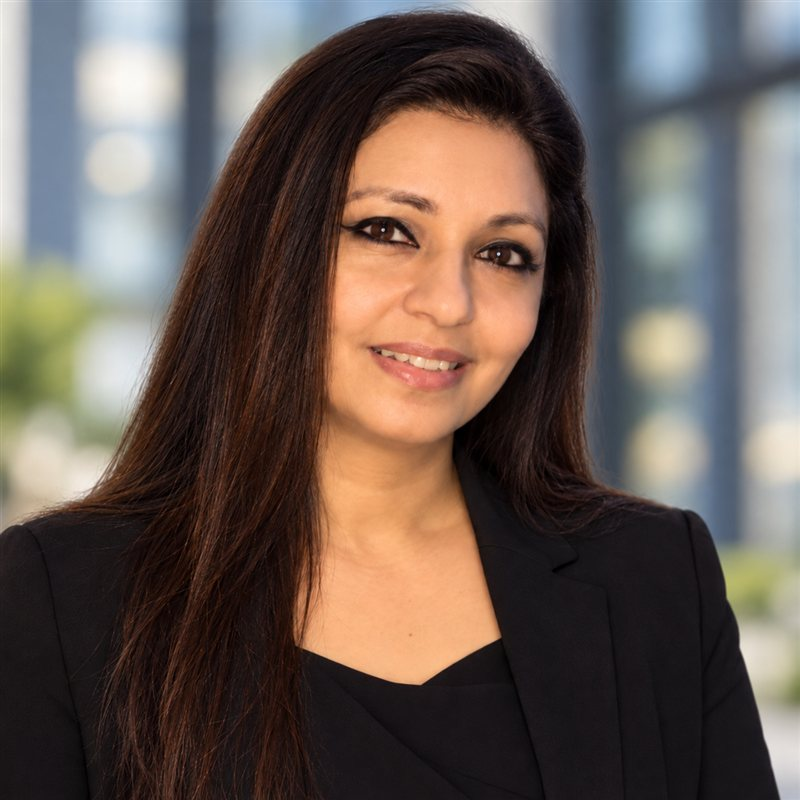
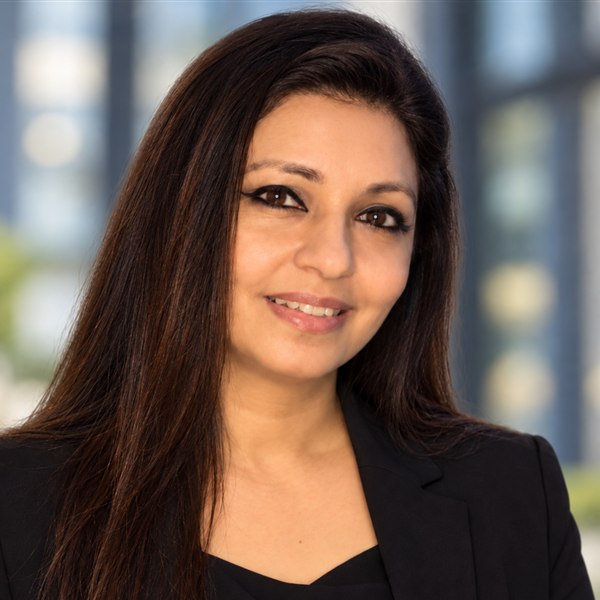
Crop tutor photos to centred headshots so heads are not cut off

diff --git a/components/TutorAvatar.tsx b/components/TutorAvatar.tsx
@@ -1,8 +1,7 @@
 type TutorAvatarProps = {
   name: string;
+  /** Square, already-cropped headshot */
   photo?: string;
-  /** Where the face sits in the photo (CSS position), so the crop centres on it. */
-  focus?: string;
   /** Tailwind size classes, e.g. "h-12 w-12" */
   sizeClass: string;
   /** Tailwind classes for the initial letter, used when there is no photo */
@@ -11,17 +10,11 @@ type TutorAvatarProps = {
   colorClass: string;
 };
 
-export default function TutorAvatar({ name, photo, focus = "50% 30%", sizeClass, textClass, colorClass }: TutorAvatarProps) {
+export default function TutorAvatar({ name, photo, sizeClass, textClass, colorClass }: TutorAvatarProps) {
   if (photo) {
     return (
       <div className={`${sizeClass} flex-shrink-0 overflow-hidden rounded-2xl bg-sky ring-1 ring-line`}>
-        <img
-          src={photo}
-          alt={name}
-          loading="lazy"
-          className="h-full w-full scale-[1.5] object-cover"
-          style={{ objectPosition: focus, transformOrigin: focus }}
-        />
+        <img src={photo} alt={name} loading="lazy" className="h-full w-full object-cover" />
       </div>
     );
   }

diff --git a/lib/content.ts b/lib/content.ts
@@ -51,7 +51,6 @@ export const WHY = [
 export type Tutor = {
   name: string;
   photo?: string;
-  photoFocus?: string;
   role: string;
   highlights: string[];
 };
@@ -60,7 +59,6 @@ export const TUTORS: Tutor[] = [
   {
     name: "Kiran",
     photo: "/tutors/kiran.jpg",
-    photoFocus: "50% 32%",
     role: "Maths & English tutor for KS2, KS3, GCSE and A level",
     highlights: [
       "UCL graduate",
@@ -72,7 +70,6 @@ export const TUTORS: Tutor[] = [
   {
     name: "Krishan",
     photo: "/tutors/krishan.jpg",
-    photoFocus: "55% 30%",
     role: "Maths & English tutor for KS1, KS2 and 11+",
     highlights: [
       "15+ years of tutoring",
@@ -84,7 +81,6 @@ export const TUTORS: Tutor[] = [
   {
     name: "Manav",
     photo: "/tutors/manav.jpg",
-    photoFocus: "50% 32%",
     role: "Maths, English and Sciences for KS2, KS3, GCSE and A level",
     highlights: [
       "Interview preparation and personal statement reviews",

diff --git a/app/(site)/page.tsx b/app/(site)/page.tsx
@@ -181,7 +181,6 @@ export default function HomePage() {
                     <TutorAvatar
                       name={tutor.name}
                       photo={tutor.photo}
-                      focus={tutor.photoFocus}
                       sizeClass="h-12 w-12"
                       textClass="text-lg"
                       colorClass={AVATARS[i]}

diff --git a/app/(site)/tutors/page.tsx b/app/(site)/tutors/page.tsx
@@ -25,7 +25,6 @@ export default function TutorsPage() {
                 <TutorAvatar
                   name={tutor.name}
                   photo={tutor.photo}
-                  focus={tutor.photoFocus}
                   sizeClass="h-20 w-20 sm:h-24 sm:w-24"
                   textClass="text-2xl"
                   colorClass={AVATARS[i]}
